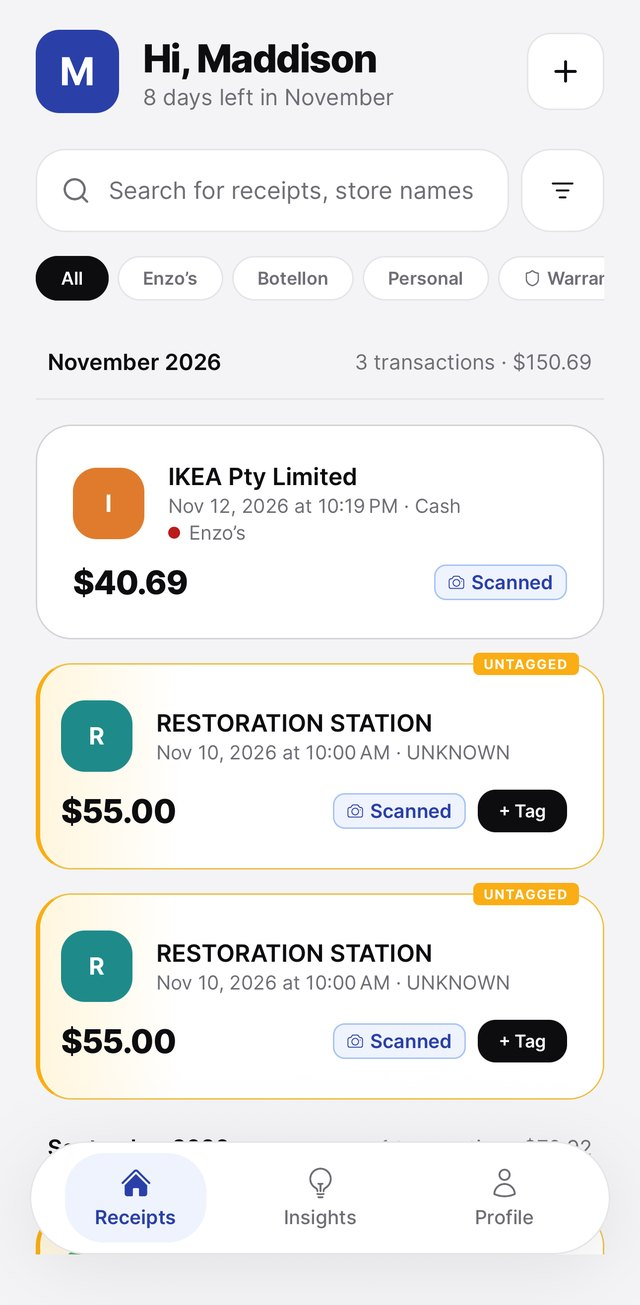
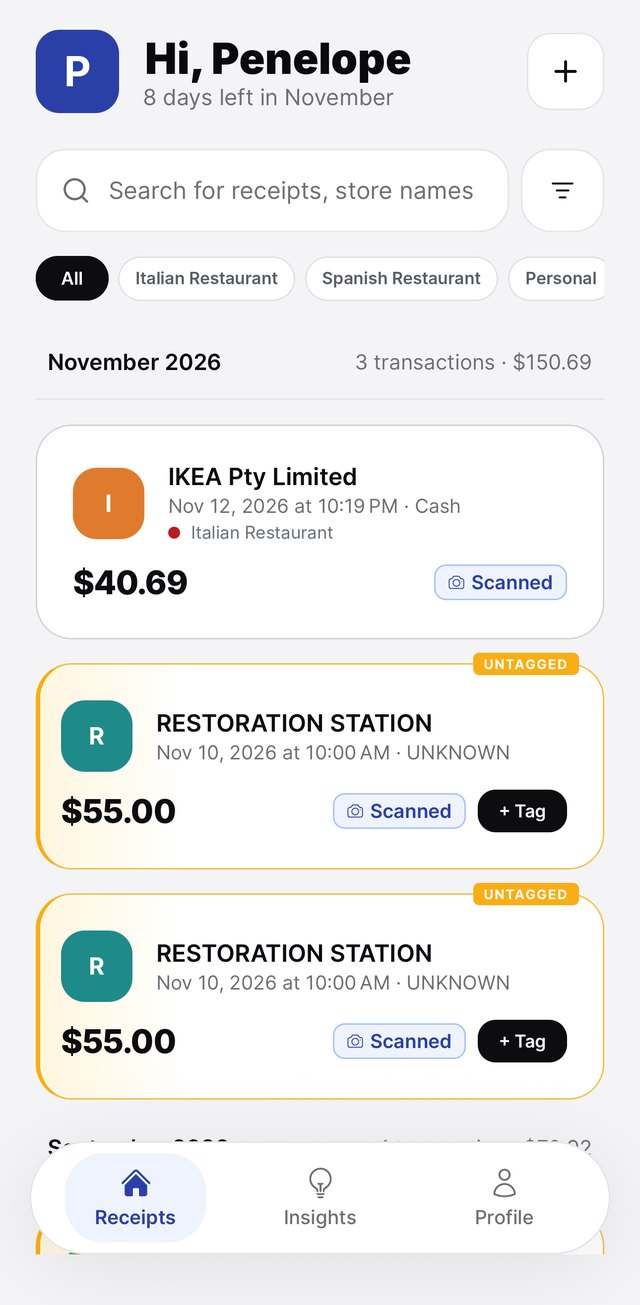
Use demo names in app screenshots
Claude-Session: https://claude.ai/code/session_01JhxBUHHDsAZ1Lg2jspooR9

diff --git a/index.html b/index.html
@@ -46,7 +46,7 @@
     </div>
     <div class="hero-phones">
       <figure class="phone phone-back"><img src="/images/app-receipt.jpg" alt="A receipt in the Dockit app showing each item, the total and 'Stored in Dockit'" width="640" height="1305"></figure>
-      <figure class="phone phone-front"><img src="/images/app-home.jpg" alt="The Dockit app home screen: 'Hi, Maddison' with this month's receipts" width="640" height="1305"></figure>
+      <figure class="phone phone-front"><img src="/images/app-home.jpg" alt="The Dockit app home screen: 'Hi, Penelope' with this month's receipts" width="640" height="1305"></figure>
       <div class="float-chip"><span class="dot"></span>Stored in Dockit</div>
     </div>
   </div>
